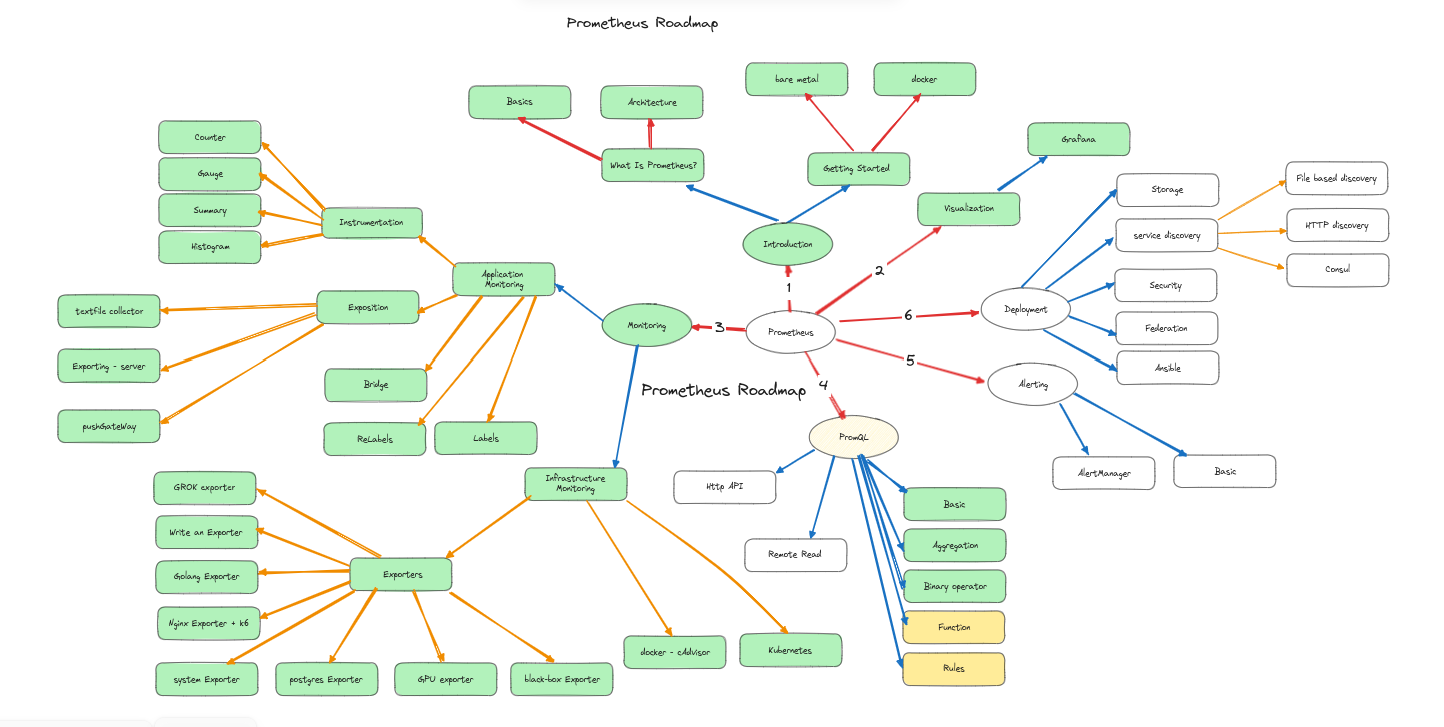
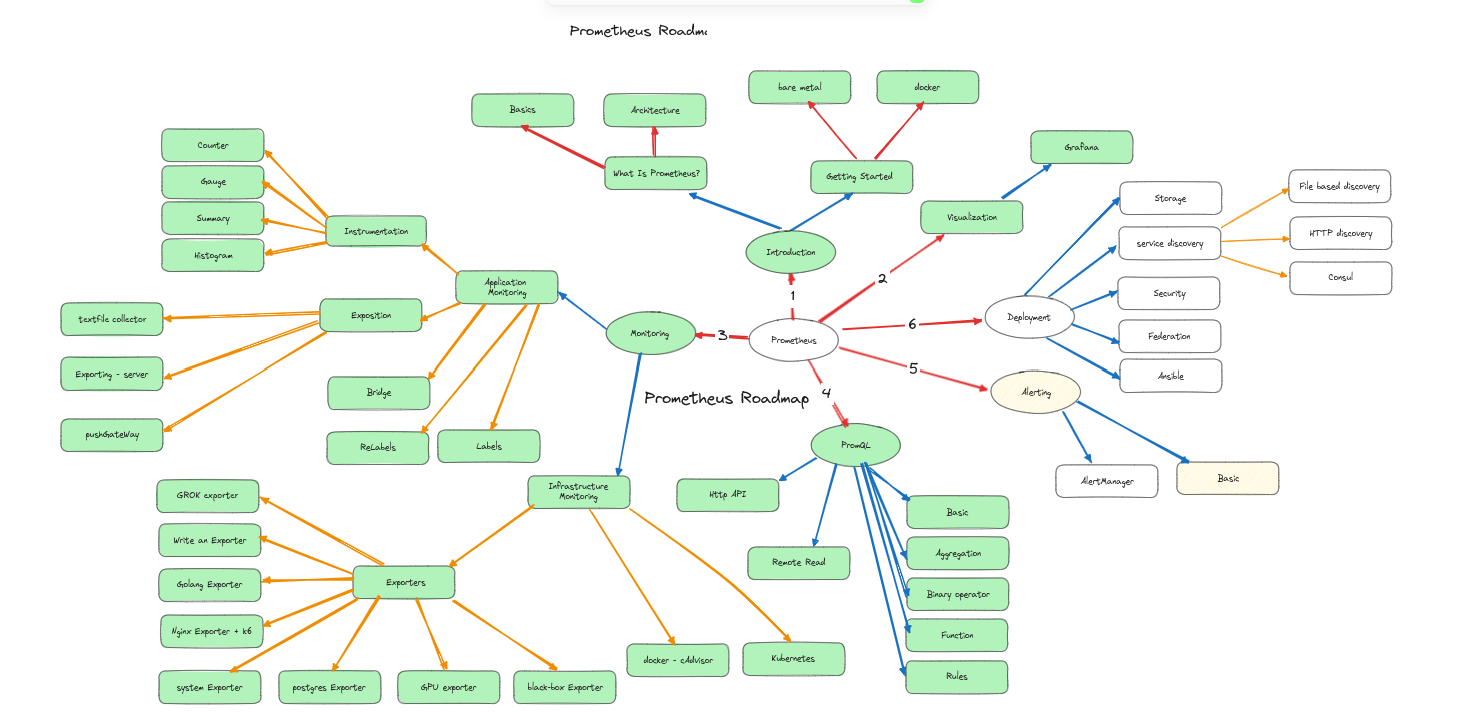
update roadmap

Changed region(s): [[0.0312, 0.061, 0.9661, 0.9764], [0.374, 0.0305, 0.4986, 0.061], [0.5921, 0.3662, 0.6233, 0.3967]]

diff --git a/Prometheus/4-PromQl/RecordingRules/RecordingRulesFa.md b/Prometheus/4-PromQl/RecordingRules/RecordingRulesFa.md
@@ -3,7 +3,7 @@
 
 
 
-در Prometheus، **Recording Rules** یکی از ویژگیهای کلیدی برای **بهینهسازی کوئریها و ذخیره مقادیر محاسبهشده** است. بیایید قدمبهقدم توضیح دهیم:
+در Prometheus، **Recording Rules** یکی از ویژگیهای کلیدی برای **بهینهسازی کوئریها و ذخیره مقادیر محاسبهشده** است. 
 
 ---
 
